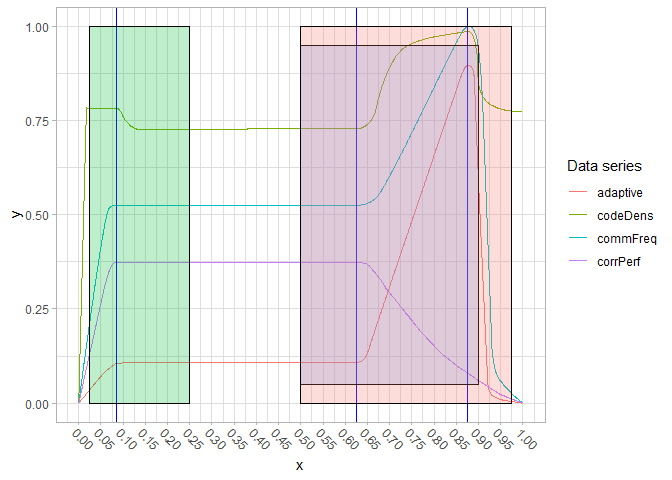
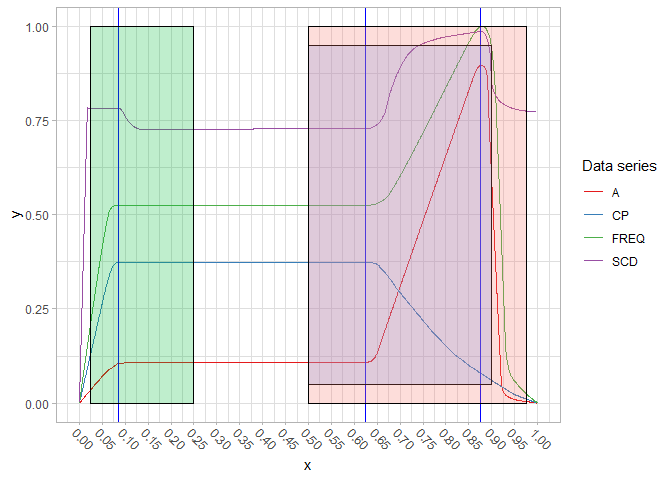
Update rendered markdown version of Fire Drill notebook

diff --git a/notebooks/fire-drill-model.md b/notebooks/fire-drill-model.md
@@ -2,6 +2,7 @@
 -   [Defining Intervals and
     sub-models](#defining-intervals-and-sub-models)
     -   [Extracting all sub-patterns](#extracting-all-sub-patterns)
+    -   [Events and Metrics](#events-and-metrics)
 -   [Load real-world project](#load-real-world-project)
     -   [Add Source Code density](#add-source-code-density)
     -   [The Final project](#the-final-project)
@@ -9,9 +10,11 @@
     -   [Scoring per variable and
         interval](#scoring-per-variable-and-interval)
     -   [Score weights and aggregation](#score-weights-and-aggregation)
+    -   [Selecting sub-models for each
+        variable](#selecting-sub-models-for-each-variable)
 -   [References](#references)
 
-    source("../helpers.R")
+    source("../helpers.R", echo = FALSE)
     source("./common-funcs.R", echo = FALSE)
 
 Importing the pattern from file
@@ -36,30 +39,31 @@ CSV. There are a few caveats:
 
 <!-- -->
 
+    # scd is source code density
     fd_data <- read.csv("../data/Fire-Drill_first-best-guess.csv", sep = ";")
     fd_data <- list(
       adaptive = stats::na.exclude(data.frame(
         x = fd_data$gold_x,
         y = fd_data$gold_y,
-        t = "adaptive"
+        t = "A"
       )),
       
       corrPerf = stats::na.exclude(data.frame(
         x = fd_data$green_x,
         y = fd_data$green_y,
-        t = "corrPerf"
+        t = "CP"
       )),
       
       commFreq = stats::na.exclude(data.frame(
         x = fd_data$indigo_x,
         y = fd_data$indigo_y,
-        t = "commFreq"
+        t = "FREQ"
       )),
       
       codeDens = stats::na.exclude(data.frame(
         x = fd_data$coral_x,
         y = fd_data$coral_y,
-        t = "codeDens"
+        t = "SCD"
       ))
     )
 
@@ -69,6 +73,8 @@ CSV. There are a few caveats:
       fd_data$commFreq,
       fd_data$codeDens
     )
+
+    fd_data_concat$t <- factor(fd_data_concat$t, levels = unique(fd_data_concat$t), ordered = TRUE)
 
     # Also, let's already correct the x-axis a bit:
     fd_data_concat$x <- fd_data_concat$x - min(fd_data_concat$x)
@@ -90,7 +96,8 @@ corner):
       scale_x_continuous(
         breaks = seq(0, 1, by = .05)
       ) +
-      theme(axis.text.x = element_text(angle = -45, vjust = 0))
+      theme(axis.text.x = element_text(angle = -45, vjust = 0)) +
+      scale_color_brewer(palette = "Set1")
 
 ![](fire-drill-model_files/figure-markdown_strict/unnamed-chunk-3-1.png)
 Now the pattern is already in the unit-square (`[0,1]`). This is OK, as
@@ -160,7 +167,8 @@ ranges:
         ymax = c(1, .95, 1),
         boundary = c("b1", "b2", "b3"),
         fill = c("green", "red", "blue")
-      ), aes(xmin = xmin, xmax = xmax, ymin = ymin, ymax = ymax, fill = fill), color = "black", alpha = .25, inherit.aes = FALSE, show.legend = FALSE)
+      ), aes(xmin = xmin, xmax = xmax, ymin = ymin, ymax = ymax, fill = fill), color = "black", alpha = .25, inherit.aes = FALSE, show.legend = FALSE) +
+      scale_color_brewer(palette = "Set1")
 
 ![](fire-drill-model_files/figure-markdown_strict/unnamed-chunk-5-1.png)
 
@@ -193,7 +201,8 @@ Now show a faceted plot:
       scale_x_continuous(
         breaks = seq(0, 1, by = .1)
       ) +
-      facet_grid(t ~ interval, scales = "free_x")
+      facet_grid(t ~ interval, scales = "free_x") +
+      scale_color_brewer(palette = "Set1")
 
 ![](fire-drill-model_files/figure-markdown_strict/unnamed-chunk-7-1.png)
 
@@ -210,6 +219,44 @@ reference pattern**, that is, each of these above represents the
 reference we want to fit the data (the query extracted according to the
 boundaries given during the optimization) against using some model
 later.
+
+Events and Metrics
+------------------
+
+We need to make an important distinction between events and metrics. An
+event does not carry other information, other than that it occurred. One
+could thus say that such an event is *nulli*-variate. If an event were
+to carry extra information, such as a measurement that was taken, it
+would be *uni*-variate. That is the case for many metrics in software:
+the time of their measurement coincides with an event, such as a commit
+that was made. On the time-axis we thus know **when** it occurred and
+**what** was its value. Such a metric could be easily understood as a
+*bi-variate x/y* variable and be plotted.
+
+An event however does not have any associated y-value we could plot.
+Given a time-axis, we could make a mark whenever it occurred. Some of
+the markers would probably be closer to each other or be more or less
+accumulated. The y-value could express these accumulations relative to
+each other. These are called **densities**. This is exactly what *Kernel
+Density Estimation* (KDE) does: it expresses the relative accumulations
+of data on the x-axis as density on the y-axis. For KDE, the actual
+values on the x-axis have another meaning, and that is to compare the
+relative likelihoods of the values on it, since the axis is ordered. For
+our case however, the axis is linear time and carries no such meaning.
+
+The project data we analyze is a kind of sampling over the project’s
+events. We subdivide the gathered project data hence into these two
+types of data series:
+
+-   **Events**: They do not carry any extra information or measurements.
+    As for the projects we analyze, events usually are occurrences of
+    specific types of commits, for example. The time of occurrence is
+    the x-value on the time-axis, and the y-value is obtained through
+    KDE.
+-   **Metrics**: Extracted from the project at specific times, for
+    example at every commit. We can extract any number or type of
+    metric, but each becomes its own variable, where the x-value is on
+    the time-axis, and the y-value is the metric’s value.
 
 Load real-world project
 =======================
@@ -272,7 +319,6 @@ while we estimated a Kernel for the activities, for all other variables
 that are metrics, the density (or curve) depends on the observed value,
 not on the frequency of observations.
 
-    # scd is source code density
     dens_scd_data <- data.frame(
       x = sp$AuthorTimeNormalized,
       y = sp$Density
@@ -309,8 +355,8 @@ all activity after August 31 2020.
       stat_function(fun = dens_a, aes(color="A"), size = 1, n = 2^11) +
       #stat_function(fun = dens_c, aes(color="C"), size = 1, n = 2^11) +
       #stat_function(fun = dens_p, aes(color="P"), size = 1, n = 2^11) +
-      stat_function(fun = dens_cp, aes(color="C+P"), size = 1, n = 2^11) +
-      stat_function(fun = dens_acp, aes(color="Freq"), size = 1, n = 2^11) +
+      stat_function(fun = dens_cp, aes(color="CP"), size = 1, n = 2^11) +
+      stat_function(fun = dens_acp, aes(color="FREQ"), size = 1, n = 2^11) +
       stat_function(fun = dens_scd, aes(color="SCD"), size = 1, n = 2^11) +
       theme_light() +
       labs(color = "Activity") +
@@ -427,11 +473,46 @@ Scoring per variable and interval
 ---------------------------------
 
 We want to choose an adequate model for each variable in each interval,
-and then optimize the boundaries to maximize the fit of each model. We
-will only use two different models (if any), and these are described
-below:
+and then optimize the boundaries to maximize the fit of each model.
 
-Models:
+A model consists of two stages. First, any signal transformations are
+formulated. We have a reference- (**A**) and query-signal (**B**). These
+transformations could be, e.g., smoothing the query-signal, fitting a
+polynomial to it, applying DTW to rectify it etc. While some
+transformations are applied only to the query-signal, some are applied
+to the reference signal, and some can be applied to both (e.g., taking
+the `ecdf()` of either signal). Furthermore, a model may choose to
+output an entire new function in this step, such as the DTW’s warping
+function. Lastly, it is also possible not to apply any transformations.
+While less robust for further processing due to the assumption of
+linearly-scaled time, this is computationally much less costly while
+also giving acceptable results.
+
+The second stage of a model is the definition of what is scored, and
+how. Depending on the output of the first stage, there are a large
+number of options. Usually the output is a pair of functions for which
+we have implemented plenty of measures that can quantify the
+differences. It may also be the case that we can directly extract final
+values or coefficients after the first stage, e.g., information about
+linear models. The first stage can also loop, meaning that arbitrary
+many transformation in series and of different kind are possible.
+
+The two stages were joined together and are represented in this image,
+the “Metrics Pipeline”:
+
+![The Metrics Pipeline](../diagrams/Metrics.png)
+
+Now it is apparent that we almost have infinitely many choices on how to
+compose a model for a variable in an interval. It would probably be
+worth conduction a larger-scale experiment with extensive grid-searches
+to find what works best under which circumstances. However, not only
+does this extend way beyond the purpose of this work and should be moved
+into the other, more technical paper. It also would cost too much time
+now, and during some of the earlier tests we have already observed a few
+things that appeared to work well. We hence limit ourselves to choosing
+one of the below, pre-configured models.
+
+These are:
 
 **No Score**: If there is no or nearly no information available for a
 variable in an interval, we should choose not to score it.
@@ -439,16 +520,23 @@ variable in an interval, we should choose not to score it.
 **Linear Model**: A linear model (regression) can be used for when we do
 not know much about the course of a variable in an interval. We use this
 model when our best expectation is a linear course of the variable, and
-that is what we extract from the model. We may have an expectation for
-the intercept, slope or the residuals. When using this model, we usually
-choose a lower weight for it.
+that is what we extract from the model (stage 1). We may have an
+expectation for the intercept, slope or the residuals (stage 2). When
+using this model, we usually choose a lower weight for it. Of course, we
+could compare functions, too, but using the mentioned parameters of the
+LM is more straightforward here.
 
 **Rectifier**: A model to match shapes of curves, that uses *DTW* to
 **rectify** a signal and then computes the goodness-of-fit using one or
-more of the previously developed scores. This is the most sophisticated
-method we currently have. The underlying DTW is computed with either
-closed or open begin/end. In the later case, the score of the rectifier
-model also reflects how much of the query was matched.
+more of the previously developed scores. Also, the best results were
+obtained by scoring the differences of the two signals *and* the
+warping-curve (stage 1). We should probably use a combination of some of
+the low-level metrics (e.g., correlation, area, arc-length, .., etc.),
+or one of the mid-level metrics (e.g., JSD or MI) that capture more than
+one property (stage 2). This is the most sophisticated method we
+currently have. The underlying DTW is computed with either closed or
+open begin/end. In the later case, the score of the rectifier model also
+reflects how much of the query was matched.
 
 **No Model** (approximate function): We can choose to just extract the
 data from the current interval, to approximate a function for its data,
@@ -458,7 +546,8 @@ in most cases; however, we assume that the data from the interval has
 linear time and no time dilations exist.
 
 **Polynomial**: Similar to **No Model**, we fit a 2nd- or 3rd-order
-polynomial over the data (currently, 3rd order should suffice given the
+polynomial (or we may use the new function `poly_autofit()` to find the
+best model) over the data (currently, 3rd order should suffice given the
 peculiarities of our defined Fire Drill) and then compare the resulting
 function against the reference. Again, this approach assumes no
 distortions in time.
@@ -519,28 +608,28 @@ distortions in time.
 <tr class="even">
 <td style="text-align: left;">Long Stretch</td>
 <td style="text-align: left;">A</td>
-<td style="text-align: left;">LM (<span class="math inline">𝔼 [0<sup>∘</sup>]</span>)</td>
+<td style="text-align: left;">No Score, LM (<span class="math inline">𝔼 [0<sup>∘</sup>]</span>)</td>
 <td style="text-align: center;"><code>0.5</code></td>
 <td style="text-align: left;">-</td>
 </tr>
 <tr class="odd">
 <td style="text-align: left;">Long Stretch</td>
 <td style="text-align: left;">C+P</td>
-<td style="text-align: left;">LM (<span class="math inline">𝔼 [0<sup>∘</sup>]</span>)</td>
+<td style="text-align: left;">No Score, LM (<span class="math inline">𝔼 [0<sup>∘</sup>]</span>)</td>
 <td style="text-align: center;"><code>0.5</code></td>
 <td style="text-align: left;">-</td>
 </tr>
 <tr class="even">
 <td style="text-align: left;">Long Stretch</td>
 <td style="text-align: left;">FREQ</td>
-<td style="text-align: left;">LM (<span class="math inline">𝔼 [0<sup>∘</sup>]</span>)</td>
+<td style="text-align: left;">No Score, LM (<span class="math inline">𝔼 [0<sup>∘</sup>]</span>)</td>
 <td style="text-align: center;"><code>0.5</code></td>
 <td style="text-align: left;">-</td>
 </tr>
 <tr class="odd">
 <td style="text-align: left;">Long Stretch</td>
 <td style="text-align: left;">SCD</td>
-<td style="text-align: left;">LM (<span class="math inline">𝔼 [slope &lt; 0<sup>∘</sup>]</span>), Rectifier, No Model, Poly(2)</td>
+<td style="text-align: left;">No Score, LM (<span class="math inline">𝔼 [slope &lt; 0<sup>∘</sup>]</span>), Rectifier, No Model, Poly(2)</td>
 <td style="text-align: center;"><code>0.5</code></td>
 <td style="text-align: left;">Use of non-LM may be applicable, considering the somewhat smooth decline in the beginning of this phase.</td>
 </tr>
@@ -688,8 +777,100 @@ Penalize small scores:
     ## [1] 0.133 0.218 0.325 0.456 0.612 0.793
 
     curve(penalizeScore)
+    tempf <- function(x) x * penalizeThreshold^(penalizeExponent - 1)
+    curve(tempf, from = penalizeThreshold, add = TRUE, type = "l", lty = "dotted", lwd = 2.5)
 
 ![](fire-drill-model_files/figure-markdown_strict/unnamed-chunk-14-1.png)
+
+Selecting sub-models for each variable
+--------------------------------------
+
+Now we are ready to select a sub-model for each variable in each
+interval. Note that all sub-models, as well as the objective function
+are defined in the file `models.R`.
+
+Let’s make the list and create the Fire Drill model!
+
+    source("../models/models.R", echo = FALSE)
+
+    listOfSubModels <- list(
+      A_Begin = sub_model_no_model,
+      A_LongStretch = sub_model_no_model,
+      A_FireDrill = sub_model_no_model,
+      A_Aftermath = sub_model_no_model
+    )
+
+    subModelWeights <- c(
+        "A_Begin" = 1,
+        "A_LongStretch" = 1,
+        "A_FireDrill" = 1,
+        "A_Aftermath" = 1
+      )
+
+    fdm <- create_fire_drill_model(
+      fireDrillPattern = fd_data_concat,
+      fireDrillProject = dens_acp_data,
+      listOfSubModels = listOfSubModels,
+      subModelWeights = subModelWeights
+    )
+
+    # Upper bound would be:
+    prod(1 + subModelWeights)
+
+    ## [1] 16
+
+    # and a dummy-test!
+    temp <- fdm(c(.3, .38, .85), returnAllScores = TRUE)
+
+    ## Warning: executing %dopar% sequentially: no parallel backend registered
+
+    ## Loading required package: proxy
+
+    ## 
+    ## Attaching package: 'proxy'
+
+    ## The following objects are masked from 'package:stats':
+    ## 
+    ##     as.dist, dist
+
+    ## The following object is masked from 'package:base':
+    ## 
+    ##     as.matrix
+
+    ## Loaded dtw v1.22-3. See ?dtw for help, citation("dtw") for use in publication.
+
+    ## 
+    ## Attaching package: 'pracma'
+
+    ## The following objects are masked from 'package:numDeriv':
+    ## 
+    ##     grad, hessian, jacobian
+
+    ## 
+    ## Attaching package: 'rootSolve'
+
+    ## The following objects are masked from 'package:pracma':
+    ## 
+    ##     gradient, hessian
+
+    ## The following object is masked from 'package:numDeriv':
+    ## 
+    ##     hessian
+
+    ## Warning: package 'SimilarityMeasures' was built under R version 4.0.3
+
+    temp
+
+    ##       A_Begin A_LongStretch   A_FireDrill   A_Aftermath 
+    ##      1.289821      1.513252      1.257024      1.367831
+
+    prod(temp)
+
+    ## [1] 3.355957
+
+    prod(temp) / prod(1 + subModelWeights) # relative score in [0,1]
+
+    ## [1] 0.2097473
 
 References
 ==========
